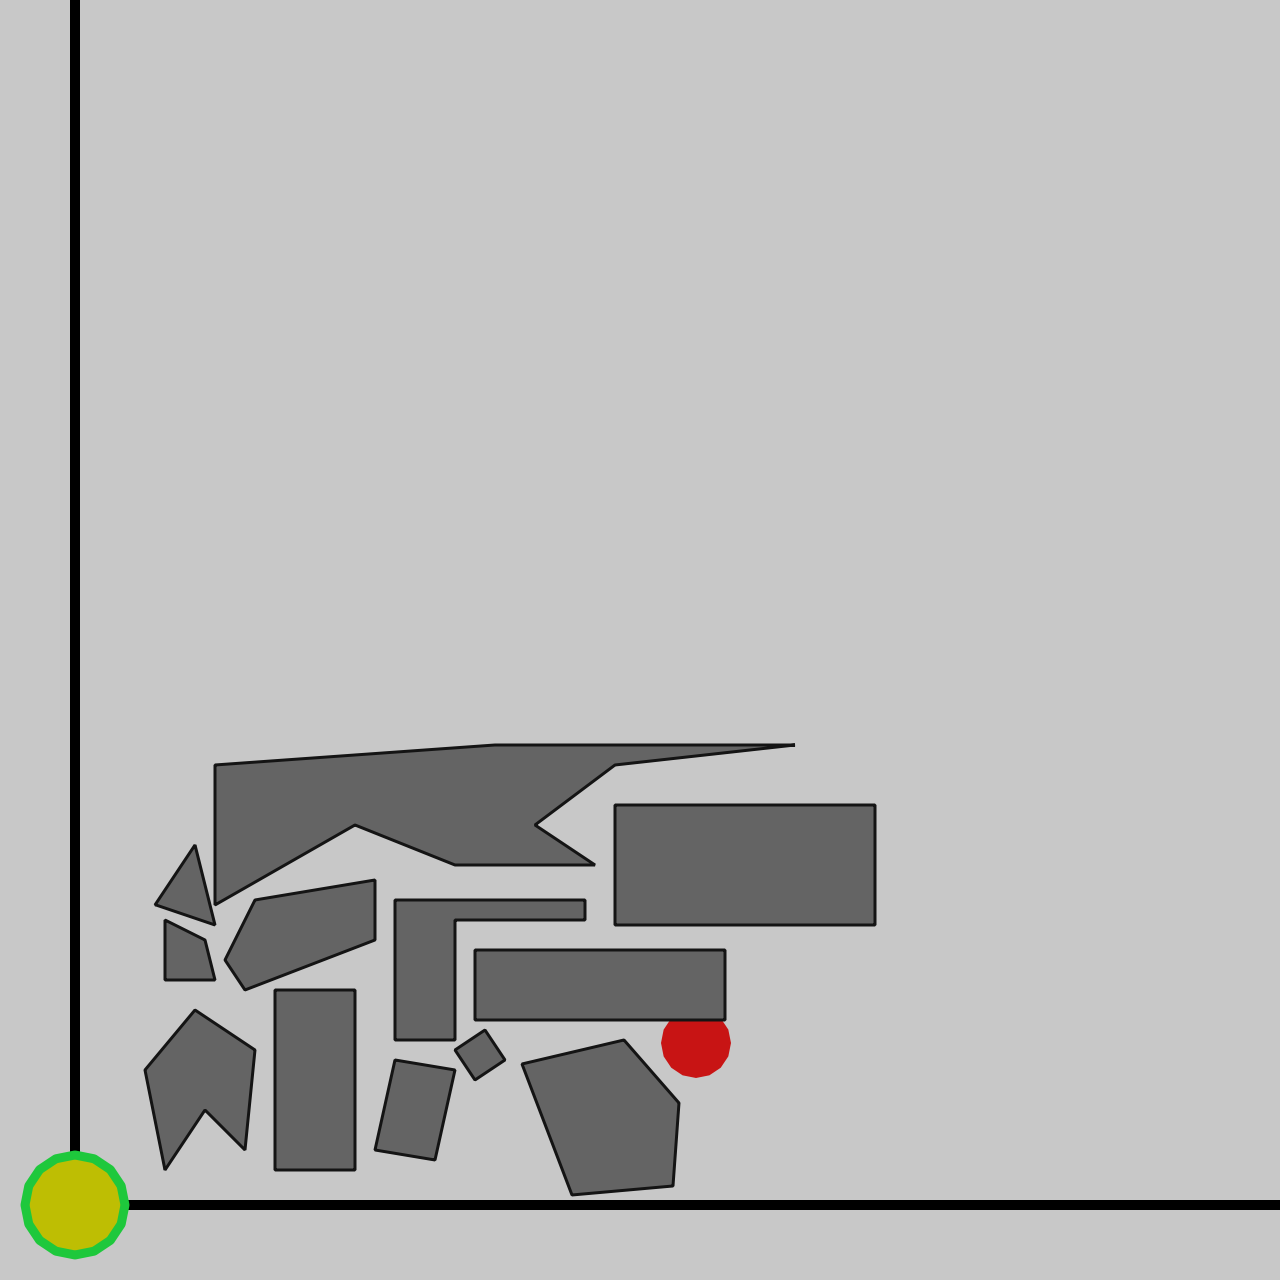
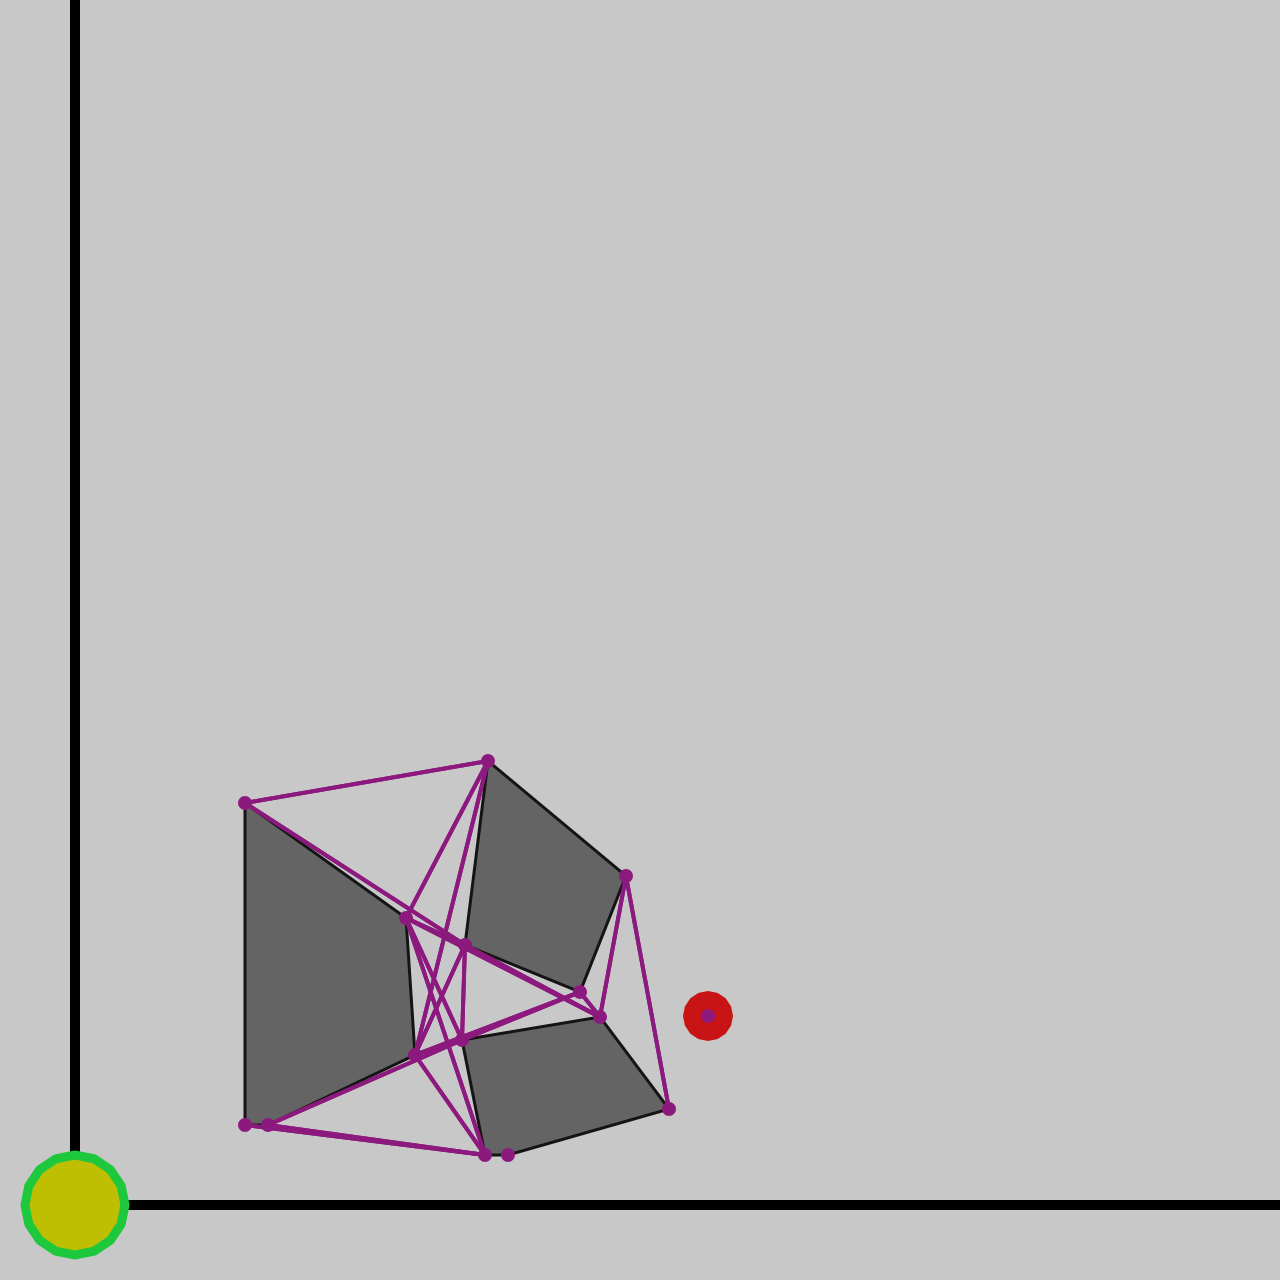
Inter-Polygonal Graph-Creation kind of works

Changed region(s): [[0.0938, 0.5625, 0.6875, 0.9375]]

diff --git a/lisa_rennt/graph/createGraph.go b/lisa_rennt/graph/createGraph.go
@@ -1,30 +1,87 @@
 package graph
 
-import "BwInf37_runde2/lisa_rennt/lib"
+import (
+	"BwInf37_runde2/lisa_rennt/lib"
+	"math"
+)
 
-func Create(home lib.Vertex, polygons []lib.Polygon) lib.Graph {
+func Create(home lib.Vertex, polygons []*lib.Polygon) lib.Graph {
 	g := lib.Graph{}
-	g.Nodes = append(g.Nodes, &lib.Node{X: home.X, Y: home.Y})
-	g.Nodes = append(g.Nodes, verticesToNodes(polygons)...)
+	//g.Nodes = append(g.Nodes, &lib.Node{X: home.X, Y: home.Y})
+	//g.Nodes = append(g.Nodes, verticesToNodes(polygons)...)
+
+	//var nodes map[*lib.Vertex]*lib.Node
+	nodes := make(map[lib.Vertex]*lib.Node)
+	nodes[lib.Vertex{}] = &lib.Node{X: home.X, Y: home.Y}
+	addAllVertices(&nodes, polygons)
 
 	var lines []*lib.Line
 	lines = append(lines, getAllLines(polygons)...)
 
-	for _, n := range g.Nodes {
+	
+
+	for _, p := range polygons {
+		for _, v := range p.Vertices {
+			for _, op := range polygons {
+				if op != p {
+					for _, ov := range op.Vertices {
+						if canReach(&v, &ov, lines) {
+							nodes[v].Edges = append(nodes[v].Edges, &lib.Edge{Node: nodes[ov], Weight: distance(&v, &ov)})
+						}
+					}
+				}
+			}
+		}
+	}
+
+	for _, n := range nodes {
+		g.Nodes = append(g.Nodes, n)
+	}
+
+	/*for _, n := range g.Nodes {
 		for _, o := range g.Nodes {
 			if n != o && canReach(n, o, lines) {
 				n.Edges = append(n.Edges, &lib.Edge{Node: o, Weight: distance(n, o)})
 			}
 		}
-	}
+	}*/
+
+	/*for _, p := range polygons {
+		for _, v := range p.Vertices {
+			n := lib.Node{X: v.X, Y: v.Y}
+			for _, op := range polygons {
+				if op != p {
+					for _, ov := range op.Vertices {
+						if canReach(v, ov, lines) {
+							n.Edges = append(n.Edges, lib.Edge{})
+						}
+					}
+				}
+			}
+			g.Nodes = append(g.Nodes, &n)
+		}
+	}*/
 
 	return g
 }
 
-func canReach(n *lib.Node, o *lib.Node, lines []*lib.Line) bool {
-	ray := lib.Line{A: lib.Vertex{X: n.X, Y: n.Y}, B: lib.Vertex{X: o.X, Y: o.Y}}
+func canReach(n *lib.Vertex, o *lib.Vertex, lines []*lib.Line) bool {
+	ray := lib.Line{A: *n, B: *o}
 
 	for _, l := range lines {
+		if l.A.X == ray.A.X && l.A.Y == ray.A.Y {
+			continue
+		}
+		if l.B.X == ray.A.X && l.B.Y == ray.A.Y {
+			continue
+		}
+		if l.A.X == ray.B.X && l.A.Y == ray.B.Y {
+			continue
+		}
+		if l.B.X == ray.B.X && l.B.Y == ray.B.Y {
+			continue
+		}
+
 		if lib.LineSegementIntersection(&ray, l) {
 			return false
 		}
@@ -33,16 +90,16 @@ func canReach(n *lib.Node, o *lib.Node, lines []*lib.Line) bool {
 	return true
 }
 
-func distance(n *lib.Node, o *lib.Node) float64 {
-	return 0
+func distance(n *lib.Vertex, o *lib.Vertex) float64 {
+	return math.Sqrt(math.Pow(n.X-o.X, 2) + math.Pow(n.Y-o.Y, 2))
 }
 
-func getAllLines(polygons []lib.Polygon) []*lib.Line {
+func getAllLines(polygons []*lib.Polygon) []*lib.Line {
 	var lines []*lib.Line
 
 	for _, p := range polygons {
 		for i := 0; i < len(p.Vertices); i++ {
-			j := i
+			j := i + 1
 			if j >= len(p.Vertices) {
 				j = 0
 			}
@@ -53,7 +110,15 @@ func getAllLines(polygons []lib.Polygon) []*lib.Line {
 	return lines
 }
 
-func verticesToNodes(polygons []lib.Polygon) []*lib.Node {
+func addAllVertices(nodes *map[lib.Vertex]*lib.Node, polygons []*lib.Polygon) {
+	for _, p := range polygons {
+		for _, v := range p.Vertices {
+			(*nodes)[v] = &lib.Node{X: v.X, Y: v.Y}
+		}
+	}
+}
+
+/*func verticesToNodes(polygons []*lib.Polygon) []*lib.Node {
 	var nodes []*lib.Node
 	for _, p := range polygons {
 		for _, v := range p.Vertices {
@@ -62,4 +127,4 @@ func verticesToNodes(polygons []lib.Polygon) []*lib.Node {
 	}
 
 	return nodes
-}
+}*/

diff --git a/lisa_rennt/LisaRennt.go b/lisa_rennt/LisaRennt.go
@@ -30,13 +30,14 @@ func main() {
 	Gc.Translate(rendering.BUSSTOP_RADIUS*1.5, -(float64(rendering.HEIGHT) - rendering.BUSSTOP_RADIUS*1.5))
 
 	// Read-File
-	Obstacles, Home = file.Read("./lisa_rennt/examples/lisarennt5.txt")
+	Obstacles, Home = file.Read("./lisa_rennt/examples/lisarennt2.txt")
 
 	rendering.RenderEnvironment(Gc)
 	rendering.RenderHome(Gc, Home)
 	rendering.RenderObstacles(Gc, Obstacles...)
 
 	g := graph.Create(Home, Obstacles)
+	rendering.RenderGraph(Gc, &g)
 
 	f, _ := os.Create("./lisa_rennt/save.png")
 	png.Encode(f, Img)

diff --git a/lisa_rennt/rendering/GraphRenderer.go b/lisa_rennt/rendering/GraphRenderer.go
@@ -1,0 +1,23 @@
+package rendering
+
+import (
+	"BwInf37_runde2/lisa_rennt/lib"
+
+	"github.com/llgcode/draw2d/draw2dimg"
+)
+
+func RenderGraph(gc *draw2dimg.GraphicContext, g *lib.Graph) {
+	gc.SetFillColor(GRAPH)
+	gc.SetStrokeColor(GRAPH)
+	gc.SetLineWidth(GRAPH_EDGE_WIDTH)
+
+	for _, n := range g.Nodes {
+		renderCircle(gc, lib.Vertex{X: n.X, Y: n.Y}, GRAPH_NODE_RADIUS)
+		for _, e := range n.Edges {
+			gc.MoveTo(n.X, n.Y)
+			gc.LineTo(e.X, e.Y)
+			gc.FillStroke()
+		}
+	}
+
+}

diff --git a/lisa_rennt/rendering/Properties.go b/lisa_rennt/rendering/Properties.go
@@ -11,5 +11,8 @@ var (
 	BUSSTOP_RADIUS = 50.0
 	BUSSTOP_STROKE = 9.0
 
-	HOME_RADIUS = 35.0
+	HOME_RADIUS = 25.0
+
+	GRAPH_NODE_RADIUS = 5.0
+	GRAPH_EDGE_WIDTH  = 4.0
 )

diff --git a/lisa_rennt/rendering/Colors.go b/lisa_rennt/rendering/Colors.go
@@ -12,4 +12,6 @@ var (
 	BUSSTOP_OUTLINE = color.RGBA{30, 200, 60, 255}
 
 	HOME_FILL = color.RGBA{200, 20, 20, 255}
+
+	GRAPH = color.RGBA{140, 25, 125, 255}
 )
